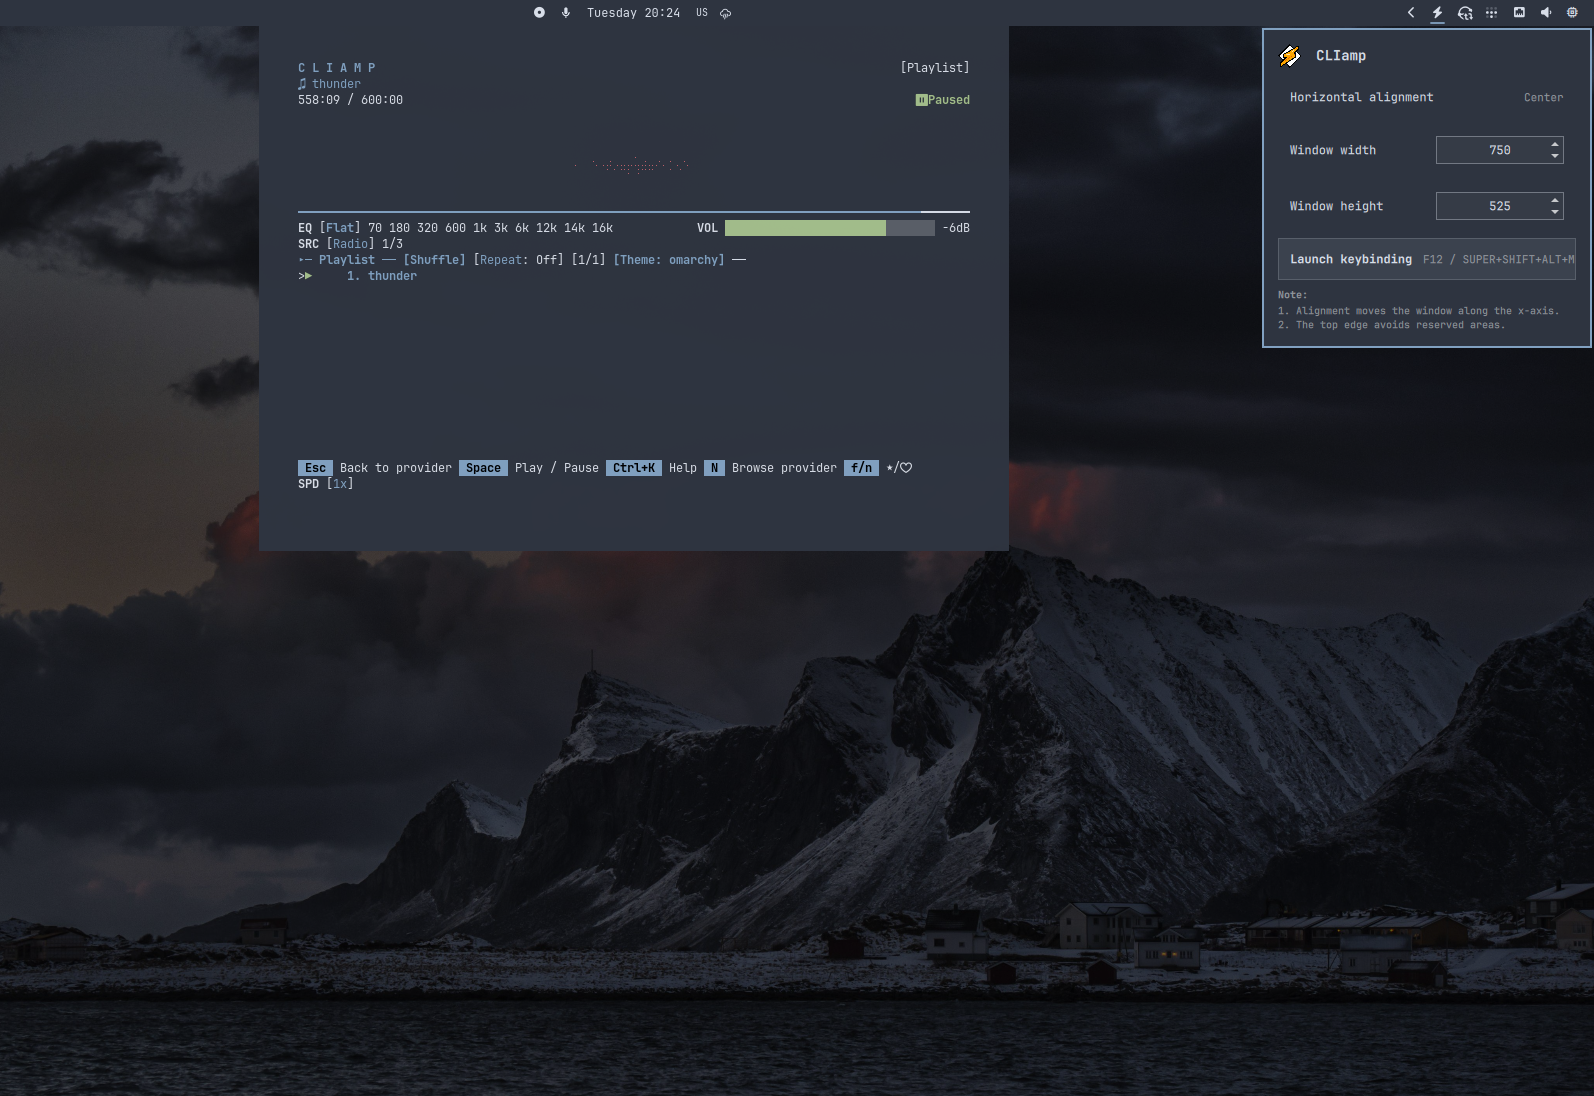
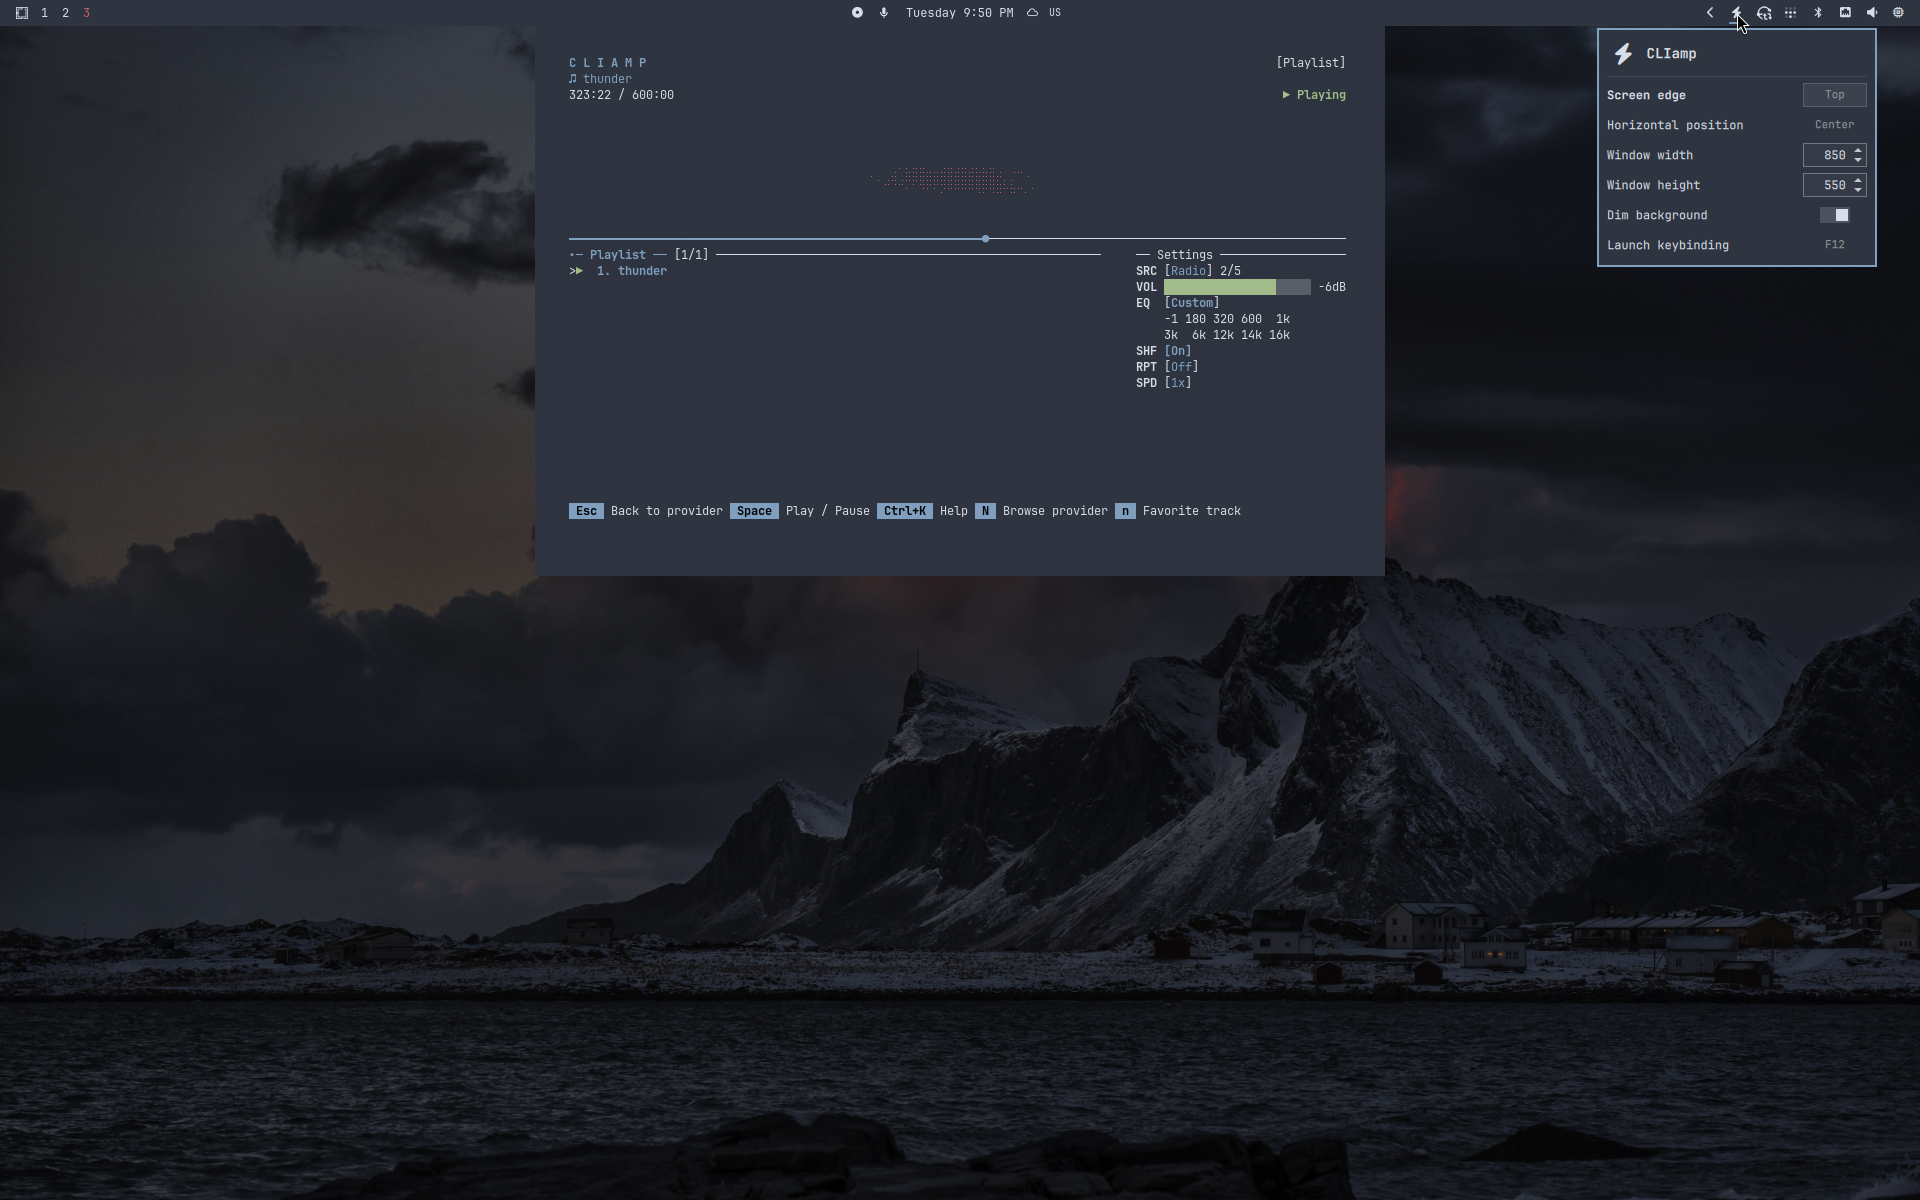
docs: add changelog and refresh preview

diff --git a/CHANGELOG.md b/CHANGELOG.md
@@ -1,0 +1,51 @@
+# Changelog
+
+## 0.2.0 - 2026-11-03
+
+- Open the drop-down from any screen edge, at the start, center, or end of it.
+- Add **Dim background**. Turned off, the desktop stays bright while CLIamp is
+  open, and your Hyprland value returns when CLIamp closes or the plugin stops.
+- Show or hide CLIamp from the panel header.
+- Flag invalid sizes instead of applying them; sizes are capped at 9,999.
+- Make the settings panel more compact, and keep keyboard control in it while
+  CLIamp opens.
+
+Known limits: Hyprland has one global special-workspace dim, so other special
+workspaces opened while it is off stay undimmed too. Changing it while CLIamp
+is open replays the slide-in, because Hyprland only reads the value when the
+workspace opens.
+
+## 0.1.6 - 2026-09-08
+
+CLIamp Window Control is now **CLIamp quake**. The plugin ID stays the same.
+
+- Resize immediately with the arrow buttons; typed sizes apply on Enter or when
+  you click elsewhere in the panel.
+- Keep the drop-down aligned on rotated and scaled monitors.
+- Handle quick toggles and workspace changes without reopening the player on
+  another workspace.
+- Preserve dimensions through shell reloads and leave regular CLIamp windows
+  alone.
+
+## 0.1.3 - 2026-08-15
+
+- Clean up plugin-owned CLIamp windows on disable or removal.
+- Keep managed CLIamp alive across ordinary shell restarts.
+- Preserve Hyprland binding options during interception.
+- Locate renamed table-form CLIamp bindings in the editor.
+
+## 0.1.2 - 2026-08-15
+
+- Consume stock and user-overridden CLIamp launch bindings without editing
+  Hyprland config files.
+- Launch a managed app ID so ordinary CLIamp windows remain untouched.
+- Restore original binding actions when the plugin is disabled or removed.
+
+## 0.1.1 - 2026-08-15
+
+- Support stock Omarchy CLIamp on a plain Quattro installation.
+- Remove mandatory setup hooks and external recovery files.
+
+## 0.1.0 - 2026-08-15
+
+Initial release of CLIamp Window Control for Omarchy Quattro.

diff --git a/README.md b/README.md
@@ -16,13 +16,7 @@ player. The key and mouse overlay in the video is a separate tool.
   toggle background dimming.
 - Size arrows resize immediately in 50 px steps. Typed values apply on **Enter**
   or when you click elsewhere in the panel.
-- Click the panel header to show or hide CLIamp without leaving the panel.
 - Select **Launch keybinding** to edit your shortcut in Omarchy's editor.
-
-Turning off **Dim background** applies while CLIamp is open. Hyprland has one
-global special-workspace dim, so other special workspaces opened meanwhile stay
-undimmed too. Changing it while CLIamp is open replays the slide-in, because
-Hyprland only reads the value when the workspace opens.
 
 The default size is **1200 x 600**, centered on the top edge. Larger sizes fit
 within the available screen space. Regular CLIamp windows are unaffected.
